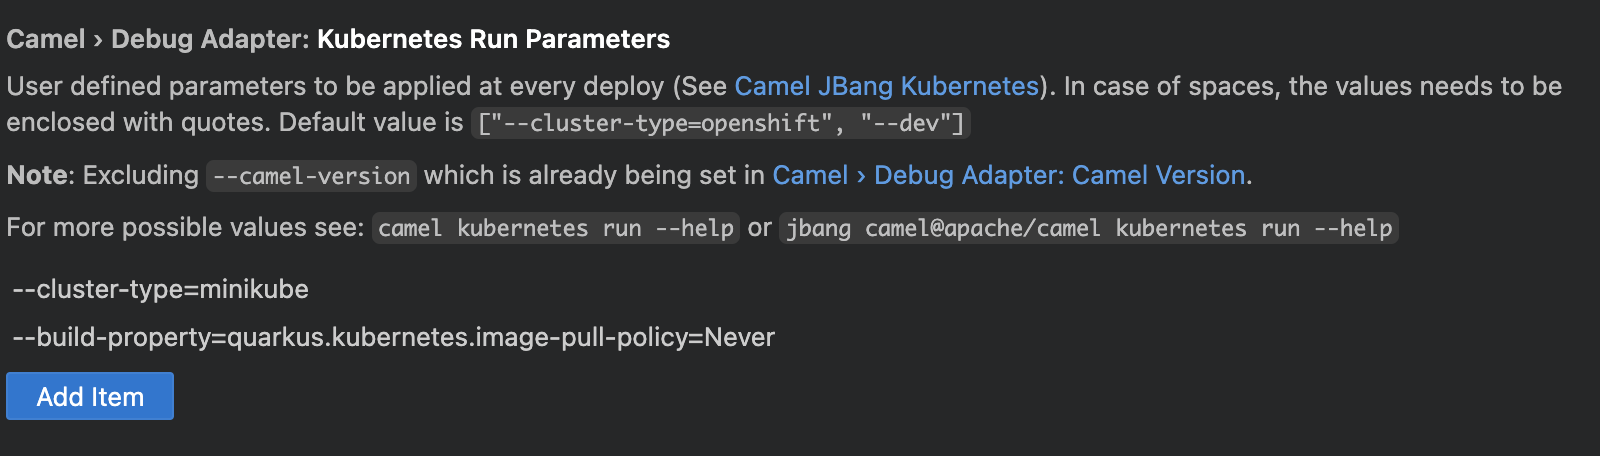
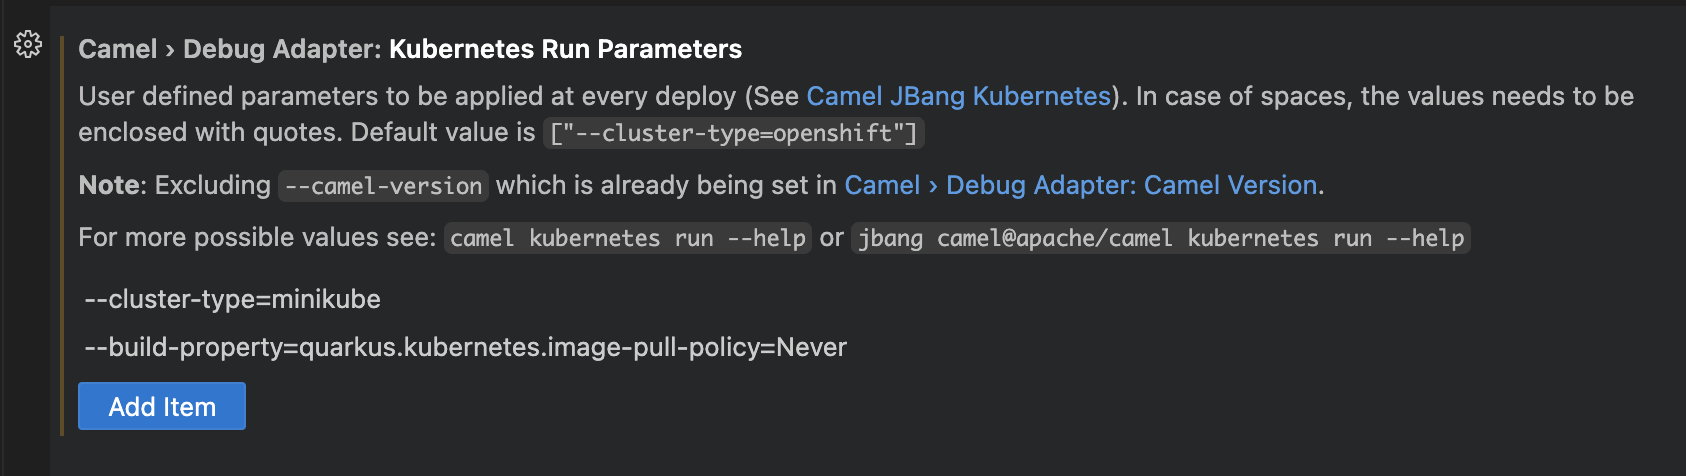
remove --dev from default parameters and improve docs

diff --git a/src/ui-test/tests/deploy.kubernetes.run.test.ts b/src/ui-test/tests/deploy.kubernetes.run.test.ts
@@ -32,7 +32,7 @@ import { killTerminal, waitUntilTerminalHasText } from '../utils';
 import { execSync } from 'child_process';
 
 describe('Camel standalone file deployment using Camel JBang Kubernetes Run', function () {
-    this.timeout(800_000);
+    this.timeout(180_000);
 
     let editorView: EditorView;
     let jbangVersion: string;
@@ -67,7 +67,7 @@ describe('Camel standalone file deployment using Camel JBang Kubernetes Run', fu
 
         // using some additional steps for CAMEL 4.9.0-SNAPSHOT / 4.8.1 version
         // because the '--dev' parameter is not working for a deployment to Kubernetes
-        await waitUntilTerminalHasText(action.getDriver(), ['BUILD SUCCESS'], 3_000, 240_000);
+        await waitUntilTerminalHasText(action.getDriver(), ['BUILD SUCCESS'], 3_000, 120_000);
         await killTerminal();
 
         const terminalView = await new BottomBarPanel().openTerminalView();

diff --git a/docs/content/kubernetes-deploy.md b/docs/content/kubernetes-deploy.md
@@ -1,8 +1,47 @@
-# How to deploy into local Kubernetes cluster
+# Deployment into cluster using Camel JBang Kubernetes plugin
+
+## Manage deployment lifecycle
+
+There are extensions which allows you to manage your deployments (which are part of an [Extension Pack for Apache Camel](https://marketplace.visualstudio.com/items?itemName=redhat.apache-camel-extension-pack)):
+
+- [OpenShift Toolkit](https://marketplace.visualstudio.com/items?itemName=redhat.vscode-openshift-connector)
+- [Kubernetes](https://marketplace.visualstudio.com/items?itemName=ms-kubernetes-tools.vscode-kubernetes-tools)
+
+or you can use a power of Camel CLI described below.
+
+### Follow logs
+
+You can use Camel CLI to obtain logs of current running integration. In terminal window execute:
+
+```shell
+jbang camel@apache/camel kubernetes logs --name=<name>
+```
+
+### Remove deployment
+
+To remove current integration, you can use also Camel CLI. In this case the command is:
+
+```shell
+jbang camel@apache/camel kubernetes delete --name=<name>
+```
+
+#### Troubleshooting
+
+For a latest releases of Camel (4.8.1+) there could be problem when deleting deployments using Camel Jbang CLI, for details you can see reported upstream issue [CAMEL-21388](https://issues.apache.org/jira/browse/CAMEL-21388).
+
+In that case please try with previous version which was working better.
+
+```shell
+jbang -Dcamel.jbang.version=4.8.0 camel@apache/camel kubernetes delete --name=<name>
+```
+
+## How to deploy into local Kubernetes cluster
 
 By default, the deployment aims OpenShift cluster. In case you need to deploy into Kubernetes, there is a small modification needed:
 
 1) open Settings UI in VS Code
+    - Linux/Windows - `File > Preferences > Settings`
+    - macOS - `Code > Settings... > Settings`
 2) navigate to `Extensions > Debug Adapter for Apache Camel`
 3) modify setting `Camel > Debug Adapter: Kubernetes Run Parameters` as you can see on picture below
 
@@ -11,19 +50,3 @@ By default, the deployment aims OpenShift cluster. In case you need to deploy in
 The picture describes how to deploy to local Kubernetes cluster using Minikube. You can use eg. also `Kind`. In that case, just change to `--cluster-type=kind`.
 
 For more information see [Camel Kubernetes plugin official documentation](https://camel.apache.org/manual/camel-jbang-kubernetes.html).
-
-## Follow logs
-
-You can use Camel CLI to obtain logs of current running integration. In terminal window execute:
-
-```shell
-jbang camel@apache/camel kubernetes logs --name=<name>
-```
-
-## Undeploy
-
-To remove current integration, you can use also Camel CLI. In this case the command is:
-
-```shell
-jbang camel@apache/camel kubernetes delete --name=<name>
-```

diff --git a/README.md b/README.md
@@ -62,8 +62,9 @@ This is the <a href="https://code.visualstudio.com/">Visual Studio Code</a> exte
 - Configuration snippets to launch Camel application ready to accept a Camel debugger connection using JBang, Maven with Camel maven plugin or Quarkus Devs
 - Deploy Integration (standalone Camel file) with [Apache Camel Kubernetes](https://camel.apache.org/manual/camel-jbang-kubernetes.html) plugin.
   - It allows **one-click deployment into OpenShift** by default
+  - to see logs or delete deployment see [Manage deployment lifecycle](./docs/content/kubernetes-deploy.md#manage-deployment-lifecycle)
   - requires Camel JBang 4.8+
-  - for deployment into Kubernetes cluster see [how to deploy into local Kubernetes cluster](./docs/content/kubernetes-deploy.md)
+  - for deployment into Kubernetes cluster see [how to deploy into local Kubernetes cluster](./docs/content/kubernetes-deploy.md#how-to-deploy-into-local-kubernetes-cluster)
 
 ### Requirements
 

diff --git a/docs/index.md b/docs/index.md
@@ -53,8 +53,9 @@ This extension adds <a href="https://camel.apache.org/manual/debugger.html">Came
   - or Quarkus Devs
 - Deploy Integration (standalone Camel file) with [Apache Camel Kubernetes](https://camel.apache.org/manual/camel-jbang-kubernetes.html) plugin.
   - It allows **one-click deployment into OpenShift** by default
+  - to see logs or delete deployment see [Manage deployment lifecycle](./content/kubernetes-deploy.md#manage-deployment-lifecycle)
   - requires Camel JBang 4.8+
-  - for deployment into Kubernetes cluster see [how to deploy into local Kubernetes cluster](./content/kubernetes-deploy.md)
+  - for deployment into Kubernetes cluster see [how to deploy into local Kubernetes cluster](./content/kubernetes-deploy.md#how-to-deploy-into-local-kubernetes-cluster)
 
 ### Advanced
 
